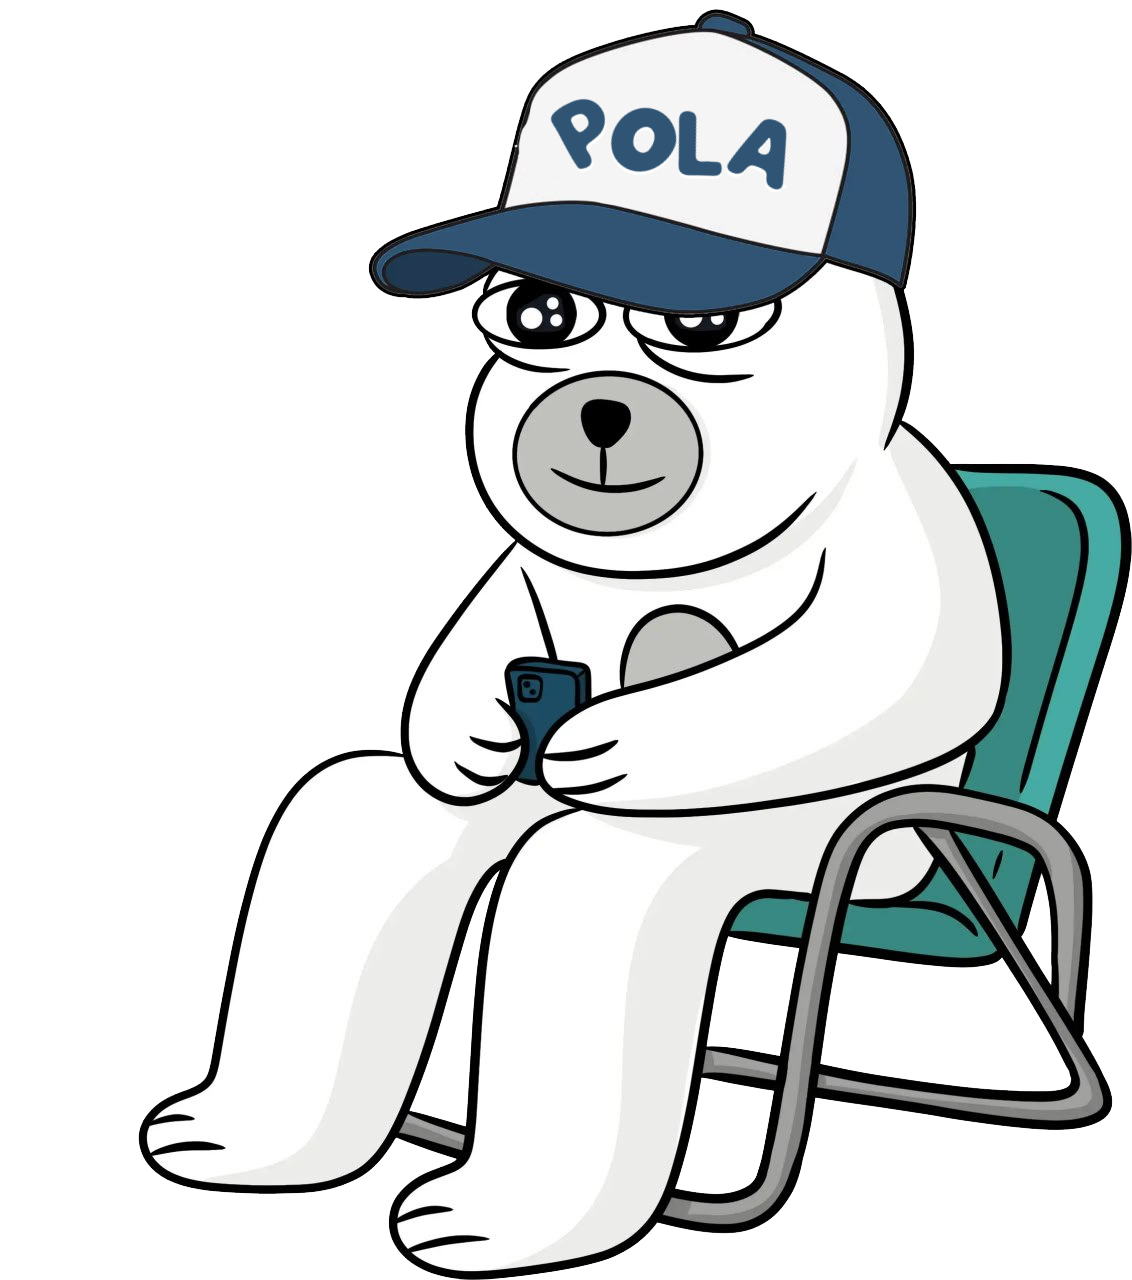
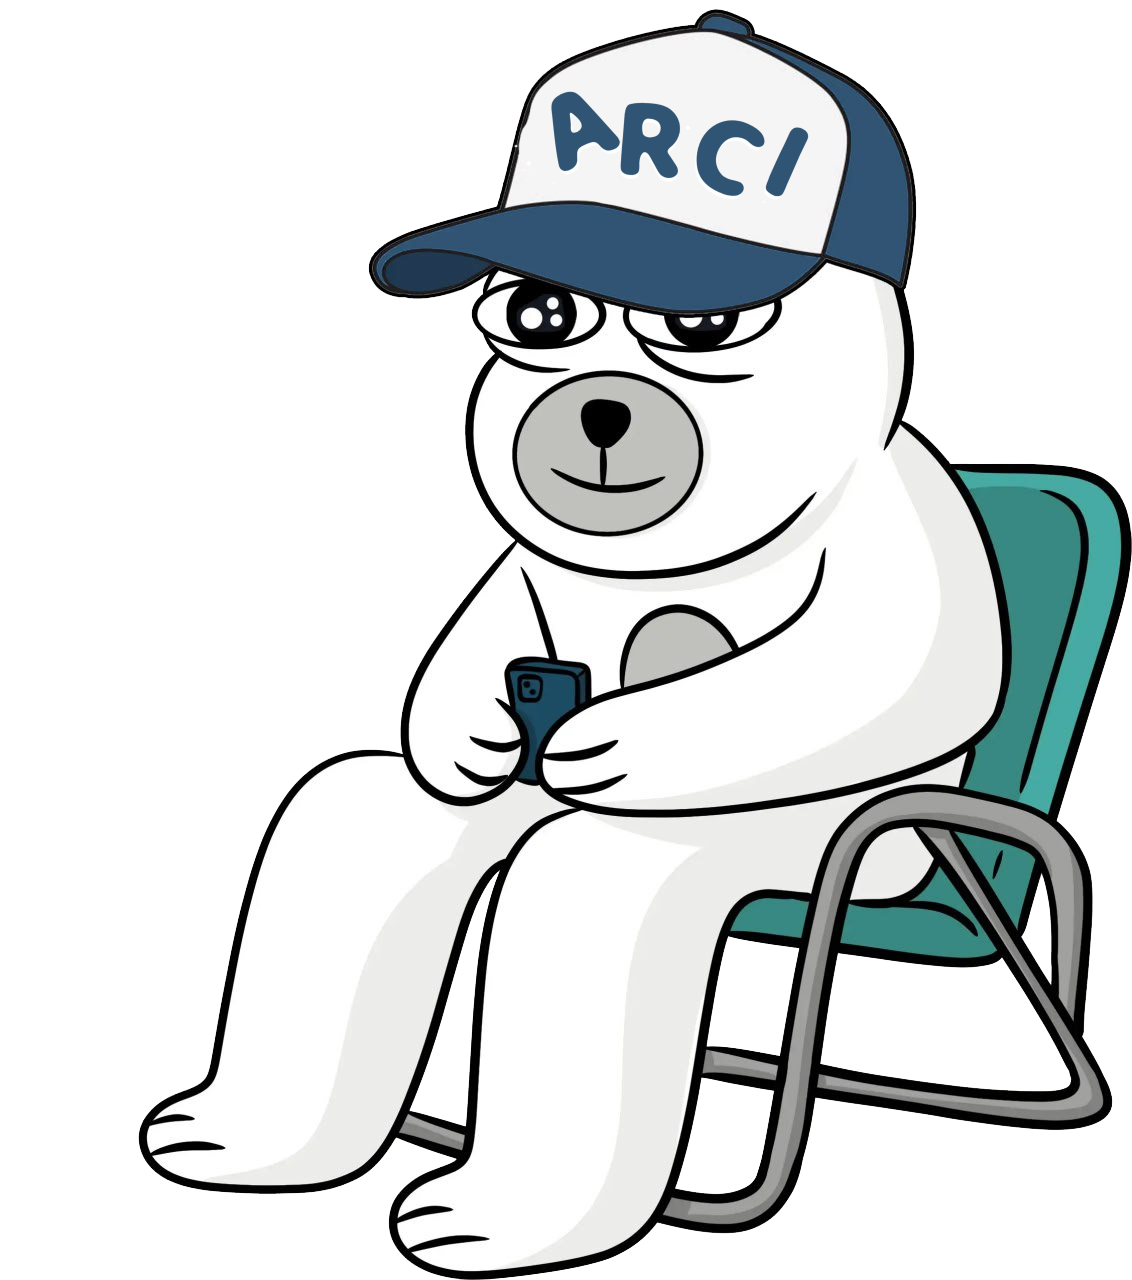
1

Changed region(s): [[0.4638, 0.0625, 0.7111, 0.1562]]

diff --git a/index.html b/index.html
@@ -16,24 +16,17 @@
 		<meta name="distribution" content="global"> 
 		<meta name="robots" content="index,follow"> 
 		<meta name="country" content="US">
-		<meta name="description" content="POLA is the newest charismatic fluffy ruler of the frozen crypto tundra. This fun, decentralized, community-driven token is built on Solana Chain.">
+		<meta name="description" content="ARCI is the newest charismatic fluffy ruler of the frozen crypto tundra. This fun, decentralized, community-driven token is built on Solana Chain.">
 		<meta name="google-site-verification" content="">
 		
 		<!-- Open Graph Meta Tags -->
 		<meta property="og:type" content="website">
 		<meta property="og:url" content="">
-		<meta property="og:title" content="POLA | The Official POLA Bear on Solanachain">
-		<meta property="og:description" content="POLA is the newest charismatic fluffy ruler of the frozen crypto tundra. This fun, decentralized, community-driven token is built on Solana Chain.">
+		<meta property="og:title" content="ARCI | The Official ARCI Bear on Solanachain">
+		<meta property="og:description" content="ARCI is the newest charismatic fluffy ruler of the frozen crypto tundra. This fun, decentralized, community-driven token is built on Solana Chain.">
 
 		
-		<!-- Twitter Card Meta Tags -->
-		<meta name="twitter:card" content="summary_large_image">
-		<meta name="twitter:site" content="@polaonbase">
-		<meta name="twitter:url" content="https://www.polaonbase.com/">
-		<meta name="twitter:title" content="POLA | The Official POLAr Bear on Solanachain">
-		<meta name="twitter:description" content="POLA is the newest charismatic fluffy ruler of the frozen crypto tundra. This fun, decentralized, community-driven token is built on Solana Chain.">
-		<meta property="twitter:image" content="https://polaonbase.com/assets/images/pola-twitter-og.jpg">
-		
+
 		<!-- Favicon and Additional Resources -->
 
 		<link rel="icon" type="image/png" sizes="32x32" href="./icon.png">
@@ -44,7 +37,7 @@
 		<meta name="msapplication-TileColor" content="#9c2730">
 		<meta name="theme-color" content="#ffffff">
 		
-		<title>POLA | The Official Polar Bear on Solanachain</title>
+		<title>ARCI | The Official Polar Bear on Solanachain</title>
 		<link href="assets/css/include.css" rel="stylesheet">
 		<!-- Google tag (gtag.js) -->
 		<script async src="https://www.googletagmanager.com/gtag/js?id=G-083C66RB80"></script>
@@ -70,16 +63,17 @@
 				<div class="container position-relative z-1">
 					<div class="hero w-100">
 						<h1 class="banner milky display-l lh-1 hstack align-items-center justify-content-center text-blue-4">
-							<span>P</span>
-							<span>O</span>
-							<span>L</span>
-							<span>A</span>
+							<span style="margin-right: 40px"> A </span>
+							<span> </span>
+							<span> R</span>
+							<span> C</span>
+							<span> I </span>
 <!--							<span style="rotate: -10deg; margin-left:-20px; margin-right: 10px;">E</span>-->
 <!--							<span>R</span>-->
 
 						</h1>
 						<div class="vstack mx-auto col-12 col-xl-6 milky fs-3 text-center gap-1 lh-base text-blue-4">
-							<span>Hi I'm POLA</span>
+							<span>Hi I'm ARCI</span>
 							<span>I'm the coldest, chillest, and funniest bear</span>
 							<span>in the entire SOLArctic. Welcome to my world.</span>
 						</div>
@@ -138,8 +132,8 @@
 				<div class="container py-5 position-relative">
 					<div class="d-flex flex-column col-12 col-lg-8 justify-content-center gap-4 text-center position-relative z-1 py-0 py-md-5 text-blue-4 milky">
 						<h2 class="display-3">A New King Has Risen</h2>
-						<p class="fs-5 lh-base">Meet POLA, the latest ruler of the icy domains of cryptocurrency, a royal polar bear who's more chilled than the arctic ice and cooler than the other side of the pillow. Born on the vast, frostbitten landscapes of the Solana Chain, this fluffy monarch has swiftly ascended to the throne, not through bloodshed or conquest, but with sheer charisma and an unshakable belief in the power of meme magic.</p>
-						<p class="fs-5 lh-base">This is not your average bear. POLA's reign is marked by his unorthodox approach to governance; he rules with a gentle paw and a heart as big as his appetite for salmon. In a world where seriousness often overshadows fun, POLA dares to ask, "Why not both?" He's democratizing the crypto kingdom one belly slide at a time, proving that you can indeed mix business with pleasure and that every bear can have his fish and eat it too.</p>
+						<p class="fs-5 lh-base">Meet ARCI, the latest ruler of the icy domains of cryptocurrency, a royal polar bear who's more chilled than the arctic ice and cooler than the other side of the pillow. Born on the vast, frostbitten landscapes of the Solana Chain, this fluffy monarch has swiftly ascended to the throne, not through bloodshed or conquest, but with sheer charisma and an unshakable belief in the power of meme magic.</p>
+						<p class="fs-5 lh-base">This is not your average bear. ARCI's reign is marked by his unorthodox approach to governance; he rules with a gentle paw and a heart as big as his appetite for salmon. In a world where seriousness often overshadows fun, ARCI dares to ask, "Why not both?" He's democratizing the crypto kingdom one belly slide at a time, proving that you can indeed mix business with pleasure and that every bear can have his fish and eat it too.</p>
 					</div>
 				</div>
 				<div class="baby-pola"></div>
@@ -149,17 +143,17 @@
 					<div class="d-flex flex-column-reverse flex-md-row gap-4">
 						<div class="d-flex flex-column justify-content-center gap-4 col-12 col-md-6">
 							<div class="d-flex flex-column gap-1 text-blue-4">
-								<span class="fs-4 milky lh-base">POLA on Solanachain</span>
-								<h2 class="milky display-s lh-1 ">OFFICIAL POLA LINKS</h2>
+								<span class="fs-4 milky lh-base">ARCI on Solanachain</span>
+								<h2 class="milky display-s lh-1 ">OFFICIAL ARCI LINKS</h2>
 							</div>
 
 							<div class="d-flex flex-column gap-2">
 								<span class="fs-6 milky fw-bolder text-blue-4">Social &amp; Onchain Data</span>
 								<div class="socials hstack gap-3">
-									<a href="https://x.com/polacoincto" target="_blank">
+									<a href="https://x.com/arcionsol" target="_blank">
 										<div class="icon twitter rounded-circle"></div>
 									</a>
-									<a href="https://t.me/polacoincto" target="_blank">
+									<a href="https://t.me/arcionsol" target="_blank">
 										<div class="icon telegram rounded-circle"></div>
 									</a>
 									<a href="#" target="_blank">
@@ -174,7 +168,7 @@
 								<span class="fs-6 milky fw-bolder text-blue-4">Exchanges (MORE TBA)</span>
 								<div class="row row-cols-2 row-cols-lg-3 g-3">
 									<div class="col">
-										<a href="https://pump.fun/m8pLGjSkkk1wztp8xzt46xC9Eb1wZyvnSExaV1w2ump" target="_blank" class="h-100 btn btn-md btn-light rounded-pill w-100 py-2 px-3">
+										<a href="https://pump.fun/WYXtHeNfEQbvrhm5vTs5NL7WGqho8uHPgLYPjJT4ump" target="_blank" class="h-100 btn btn-md btn-light rounded-pill w-100 py-2 px-3">
 											<img src="assets/logos/pumpfun.svg" class="w-75 mt-1" alt="uniswap link">
 										</a>
 									</div>
@@ -197,10 +191,10 @@
 							</div-->
 						</div>
 						<div class="col-12 col-md-4 pola-in-phone">
-							<a class="polarmy-buble polarmy-link" href="https://t.me/polacoincto"><img src="assets/images/pola-phone-bubble-r.png" class="w-100 " alt="click to join polarmy"></a>
-							<a href="https://t.me/polacoincto"><img src="assets/images/pola-phone-r.png" class="w-100 " alt="pola having fun on tg"></a>
-							<a class="polarmy-buble polarmy-link" href="https://t.me/polacoincto"><img src="assets/images/pola-phone-bubble-l.png" class="w-100 " alt="click to join polarmy"></a>
-							<a  href="https://t.me/polacoincto"><img src="assets/images/pola-phone-l.png" class="w-100 " alt="pola having fun on tg"></a>
+							<a class="polarmy-buble polarmy-link" href="https://t.me/arcionsol"><img src="assets/images/pola-phone-bubble-r.png" class="w-100 " alt="click to join polarmy"></a>
+							<a href="https://t.me/arcionsol"><img src="assets/images/pola-phone-r.png" class="w-100 " alt="pola having fun on tg"></a>
+							<a class="polarmy-buble polarmy-link" href="https://t.me/arcionsol"><img src="assets/images/pola-phone-bubble-l.png" class="w-100 " alt="click to join polarmy"></a>
+							<a  href="https://t.me/arcionsol"><img src="assets/images/pola-phone-l.png" class="w-100 " alt="pola having fun on tg"></a>
 						</div>
 					</div>
 					
@@ -226,17 +220,17 @@
 			<section id="tokenomics" class="position-relative bg-blue-4 py-5 snow-cap">
 				<div class="container py-5 position-relative">
 					<div class="vstack gap-4 text-center mb-5 col-12 col-xl-6 mx-auto text-white milky">
-						<h2 class="display-1 shouxietongzhen gradient-txt-1">POLAnomics</h2>
-						<p class="fs-5 lh-base">Adhering to the ethos of decentralization, $POLA adopted a strategy to ensure genuine community ownership and nurture growth with steadfast support from the community.</p>
+						<h2 class="display-1 shouxietongzhen gradient-txt-1">ARCInomics</h2>
+						<p class="fs-5 lh-base">Adhering to the ethos of decentralization, $ARCI adopted a strategy to ensure genuine community ownership and nurture growth with steadfast support from the community.</p>
 					</div>
 
 					<div class="d-flex flex-column flex-xl-row disclaimer rounded-4 p-3 border border-4 border-blue-1 shadow gap-3 col-12 col-xl-8 mx-auto mb-4 bg-white milky text-blue-4">
-						<a href="https://pump.fun/m8pLGjSkkk1wztp8xzt46xC9Eb1wZyvnSExaV1w2ump"><button class="btn btn-lg btn-light px-3">
-							<span class="fw-bold fs-6 text-blue-4">Buy $POLA</span>
+						<a href="https://pump.fun/WYXtHeNfEQbvrhm5vTs5NL7WGqho8uHPgLYPjJT4ump"><button class="btn btn-lg btn-light px-3">
+							<span class="fw-bold fs-6 text-blue-4">Buy $ARCI</span>
 						</button></a>
 						<div class="col-12 col-xl-10 hstack gap-3 justify-content-between rounded-3 border p-1 fs-6">
-							<span class="text-truncate fw-bold ms-3 contact">Contract address: m8pLGjSkkk1wztp8xzt46xC9Eb1wZyvnSExaV1w2ump</span>
-							<button class="btn btn-md btn-light copy" data-text="m8pLGjSkkk1wztp8xzt46xC9Eb1wZyvnSExaV1w2ump">
+							<span class="text-truncate fw-bold ms-3 contact">Contract address: WYXtHeNfEQbvrhm5vTs5NL7WGqho8uHPgLYPjJT4ump</span>
+							<button class="btn btn-md btn-light copy" data-text="WYXtHeNfEQbvrhm5vTs5NL7WGqho8uHPgLYPjJT4ump">
 								<i class="bi bi-clipboard"></i>
 							</button>
 						</div>
@@ -309,7 +303,7 @@
 									<img src="assets/images/icons/base.svg" class="w-100" alt="base logo">
 								</div>
 								<h3 class="fw-bolder fs-1 milky text-uppercase lh-1">Secure Solana (BASE ETH)</h3>
-								<p class="fs-6 lh-base milky">Purchase Solanachain Ethereum (BASE), the foundational currency required for transactions on the base network where $POLA operates. BASE ETH acts as the "gas" for transactions, including buying $POLA.</p>
+								<p class="fs-6 lh-base milky">Purchase Solanachain Ethereum (BASE), the foundational currency required for transactions on the base network where $ARCI operates. BASE ETH acts as the "gas" for transactions, including buying $ARCI.</p>
 							</div>
 						</div>
 						<div class="col">
@@ -317,8 +311,8 @@
 								<div class="col-4 col-md-2">
 									<img src="assets/images/pola-5.webp" class="w-100" alt="buy pola">
 								</div>
-								<h3 class="fw-bolder fs-1 milky text-uppercase lh-1">Buy $POLA</h3>
-								<p class="fs-6 lh-base milky">Use your newly acquired BASE ETH to purchase $POLA tokens through a cryptocurrency exchange or decentralized exchange platform that lists $POLA.</p>
+								<h3 class="fw-bolder fs-1 milky text-uppercase lh-1">Buy $ARCI</h3>
+								<p class="fs-6 lh-base milky">Use your newly acquired BASE ETH to purchase $ARCI tokens through a cryptocurrency exchange or decentralized exchange platform that lists $ARCI.</p>
 							</div>
 						</div>
 						<div class="col">
@@ -327,7 +321,7 @@
 									<img src="assets/images/icons/crypto-wallet.svg" class="w-100" alt="wallet logo">
 								</div>
 								<h3 class="fw-bolder fs-1 milky text-uppercase lh-1">Add To Your Wallet</h3>
-								<p class="fs-6 lh-base milky">Import $POLA tokens into your MetaMask wallet by adding the pola token's contract address. This allows you to view and manage your $POLA holdings directly within MetaMask.</p>
+								<p class="fs-6 lh-base milky">Import $ARCI tokens into your MetaMask wallet by adding the pola token's contract address. This allows you to view and manage your $ARCI holdings directly within MetaMask.</p>
 							</div>
 						</div>
 					</div>
@@ -345,8 +339,8 @@
 					
 						<img src="assets/images/VPN-Logo.svg" class="vpn-logo" alt="pola vpn logo">
 						
-						<h2 class="text-nowrap milky display-s lh-1">POLA VPN</h2>
-						<span class="text-center fs-6 lh-base milky">POLAVPN is the very first memecoin to have this feature. it is your gateway to a secure and unrestricted online experience, designed with your privacy in mind. Whether you're browsing, streaming, or working remotely, POLAVPN ensures your data stays protected and your connections remain anonymous.</span>
+						<h2 class="text-nowrap milky display-s lh-1">ARCI VPN</h2>
+						<span class="text-center fs-6 lh-base milky">ARCIVPN is the very first memecoin to have this feature. it is your gateway to a secure and unrestricted online experience, designed with your privacy in mind. Whether you're browsing, streaming, or working remotely, ARCIVPN ensures your data stays protected and your connections remain anonymous.</span>
 						<div class="vpn-button-container" >
 							<button type="button" id="openISOApp" class="vpn-button border btn btn-light rounded-pill milky py-4 p-5 hstack gap-3 justify-content-center w-48">
 								<span class="fw-bolder fs-4">Android App soon</span>
@@ -403,10 +397,10 @@
 								<img src="assets/images/nfts/10.webp" alt="pola nft">
 							</div>
 						</div>
-						<h2 class="display-s lh-1 milky text-blue-4">POLA NFT</h2>
+						<h2 class="display-s lh-1 milky text-blue-4">ARCI NFT</h2>
 						<div class="vstack gap-3 fs-6 fw-normal lh-base text-dark text-opacity-75">
-							<p>Explore POLA NFT, an enchanting collection of 5,000 NFTs, released on Solana drawing inspiration from a cherished polar bear, these NFTs capture the essence and spirit of a unique polar bear-inspired theme.</p>
-							<p>Owning a POLA NFT connects you to the dynamic community surrounding this theme, signifying your appreciation and embrace of the unique culture these digital assets symbolize.</p>
+							<p>Explore ARCI NFT, an enchanting collection of 5,000 NFTs, released on Solana drawing inspiration from a cherished polar bear, these NFTs capture the essence and spirit of a unique polar bear-inspired theme.</p>
+							<p>Owning a ARCI NFT connects you to the dynamic community surrounding this theme, signifying your appreciation and embrace of the unique culture these digital assets symbolize.</p>
 						</div>
 						<div>
 							<span class="fw-bold fw-bold py-2 rounded-pill">Collection Coming Soon</span>
@@ -423,14 +417,14 @@
 							<div class="d-flex flex-column gap-1 text-blue-4">
 								<span class="fs-4 milky">Ice Cream Products</span>
 								<div class="hstack">
-									<h2 id="data-title" class="text-nowrap milky display-s lh-1">POLAPops</h2>
+									<h2 id="data-title" class="text-nowrap milky display-s lh-1">ARCIPops</h2>
 									<span class="fs-2 fw-bold lh-1">ⓒ</span>
 								</div>
-								<span id="data-description" class="fs-6 lh-base milky">POLA Pops brings a refreshing twist to your favorite frozen treat! Our ice creams are handcrafted with natural ingredients, offering a burst of flavors that are as unique as they are delicious. From the classic creamy delights to exotic fruit-filled wonders, each POLA Pop is designed to provide a blissful escape into a world of sweet, frosty pleasure.</span>
+								<span id="data-description" class="fs-6 lh-base milky">ARCI Pops brings a refreshing twist to your favorite frozen treat! Our ice creams are handcrafted with natural ingredients, offering a burst of flavors that are as unique as they are delicious. From the classic creamy delights to exotic fruit-filled wonders, each ARCI Pop is designed to provide a blissful escape into a world of sweet, frosty pleasure.</span>
 							</div>
 
 							<div class="d-flex flex-column gap-4">
-								<span class="fs-3 milky text-blue-4">POLAPops Flavors</span>
+								<span class="fs-3 milky text-blue-4">ARCIPops Flavors</span>
 								<div class="row row-cols-3 row-cols-md-5 g-3 ice-creams">
 																		<div data-id="1" class="col data-source">
 										<a role="button" data-image="assets/flavors/1.webp" class="vstack h-100 rounded-4 p-3 gap-3 text-center">
@@ -499,7 +493,7 @@
 								<span class="fw-bold fs-6">Legal Disclaimer</span>
 								<i class="bi bi-arrow-down-circle-fill"></i>
 							</a>
-							<p id="legal" class="p-3 fs-7 lh-base d-none text-white">The content on the POLA Token website is not meant to be understood as investment, financial, trading, or any form of advice, and should not be interpreted as such. POLA Token does not suggest that any should be bought, sold, or held by you. It is important to perform your own thorough research and consult with your financial advisor prior to making any investment decisions. By acquiring POLA Token, you acknowledge that you are not obtaining a security or investment and you agree to absolve POLA Token of any responsibility for any losses or taxes you may face. Additionally, you accept that POLA Token is offered "as is" without any obligation for support or services. Expectations from POLA Token should be none. Although POLA Token is designed for social networking and is not a registered digital currency, it is highly advised that individuals in locations where is banned by the government refrain from purchasing it, as POLA Token cannot guarantee adherence to the legal requirements of your region. Always ensure your actions are in full compliance with local laws and regulations before making any purchases.</p>
+							<p id="legal" class="p-3 fs-7 lh-base d-none text-white">The content on the ARCI Token website is not meant to be understood as investment, financial, trading, or any form of advice, and should not be interpreted as such. ARCI Token does not suggest that any should be bought, sold, or held by you. It is important to perform your own thorough research and consult with your financial advisor prior to making any investment decisions. By acquiring ARCI Token, you acknowledge that you are not obtaining a security or investment and you agree to absolve ARCI Token of any responsibility for any losses or taxes you may face. Additionally, you accept that ARCI Token is offered "as is" without any obligation for support or services. Expectations from ARCI Token should be none. Although ARCI Token is designed for social networking and is not a registered digital currency, it is highly advised that individuals in locations where is banned by the government refrain from purchasing it, as ARCI Token cannot guarantee adherence to the legal requirements of your region. Always ensure your actions are in full compliance with local laws and regulations before making any purchases.</p>
 						</div>
 
 						<div class="vstack disclaimer rounded-4 shadow-sm">
@@ -512,11 +506,11 @@
 
 						<div class="d-flex flex-column flex-xl-row disclaimer rounded-4 p-3 shadow gap-3">
 							<button class="btn btn-lg btn-light px-3">
-								<a class="fw-bold fs-6 text-nowrap text-black" href="https://pump.fun/m8pLGjSkkk1wztp8xzt46xC9Eb1wZyvnSExaV1w2ump" target="_blank">Buy $POLA</a>
+								<a class="fw-bold fs-6 text-nowrap text-black" href="https://pump.fun/WYXtHeNfEQbvrhm5vTs5NL7WGqho8uHPgLYPjJT4ump" target="_blank">Buy $ARCI</a>
 							</button>
 							<div class="col-12 col-xl-10 text-white hstack gap-3 justify-content-between rounded-3 border p-1 fs-6">
-								<span class="text-truncate fw-bold ms-3 contact">Contract address: m8pLGjSkkk1wztp8xzt46xC9Eb1wZyvnSExaV1w2ump</span>
-								<button class="btn btn-md btn-light copy" data-text="m8pLGjSkkk1wztp8xzt46xC9Eb1wZyvnSExaV1w2ump">
+								<span class="text-truncate fw-bold ms-3 contact">Contract address: WYXtHeNfEQbvrhm5vTs5NL7WGqho8uHPgLYPjJT4ump</span>
+								<button class="btn btn-md btn-light copy" data-text="WYXtHeNfEQbvrhm5vTs5NL7WGqho8uHPgLYPjJT4ump">
 									<i class="bi bi-clipboard"></i>
 								</button>
 							</div>
@@ -526,10 +520,10 @@
 							<div class="col-12 col-md-4">
 								<div class="vstack gap-3">
 									<img src="assets/logos/pola.svg" class="col-8" alt="pola logo">
-									<small class="d-block mb-3">Collect, create, and engage with POLA!</small>
+									<small class="d-block mb-3">Collect, create, and engage with ARCI!</small>
 									<div class="hstack gap-4">
-										<a href="https://x.com/polacoincto" target="_blank" class="fs-4"><i class="bi bi-twitter"></i></a>
-										<a href="https://t.me/polacoincto" target="_blank" class="fs-4"><i class="bi bi-telegram"></i></a>
+										<a href="https://x.com/arcionsol" target="_blank" class="fs-4"><i class="bi bi-twitter"></i></a>
+										<a href="https://t.me/arcionsol" target="_blank" class="fs-4"><i class="bi bi-telegram"></i></a>
 									</div>
 								</div>
 							</div>
@@ -543,13 +537,13 @@
 		<div class="menu text-nowrap rounded-pill position-fixed bottom-0 z-3 bg-white border border-4 shadow d-none d-lg-block">
 			<div class="menu-list hstack gap-1">
 								<a href="#home" class="d-none d-md-block btn rounded-pill active.">Home</a>
-								<a href="#about" class="d-none d-md-block btn rounded-pill">About POLA</a>
+								<a href="#about" class="d-none d-md-block btn rounded-pill">About ARCI</a>
 								<a href="#links" class="d-none d-md-block btn rounded-pill">Ecosystem</a>
 								<a href="#tokenomics" class="d-none d-md-block btn rounded-pill">Tokenomics</a>
 
 								<a href="#vpn" class="d-none d-md-block btn rounded-pill">VPN</a>
 								<a href="#nft" class="d-none d-md-block btn rounded-pill">NFT</a>
-								<a href="#popsicles" class="d-none d-md-block btn rounded-pill">POLAPops</a>
+								<a href="#popsicles" class="d-none d-md-block btn rounded-pill">ARCIPops</a>
 								<a href="#" class="d-block d-md-none hamburger-menu">
 					<div></div>
 					<div></div>
